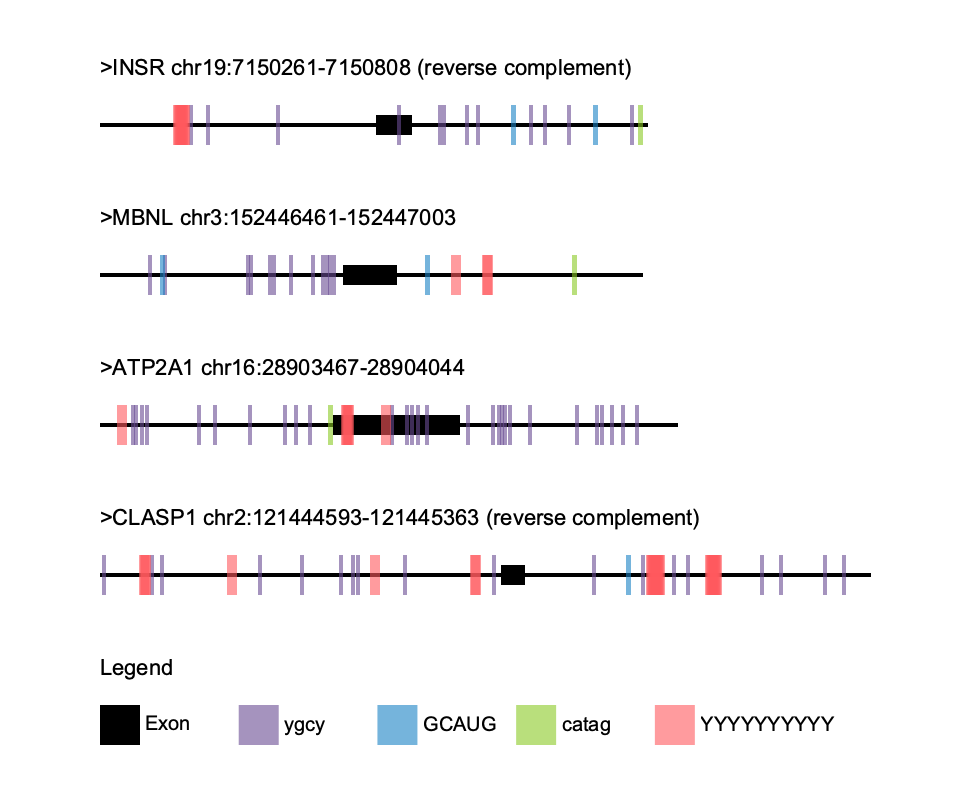
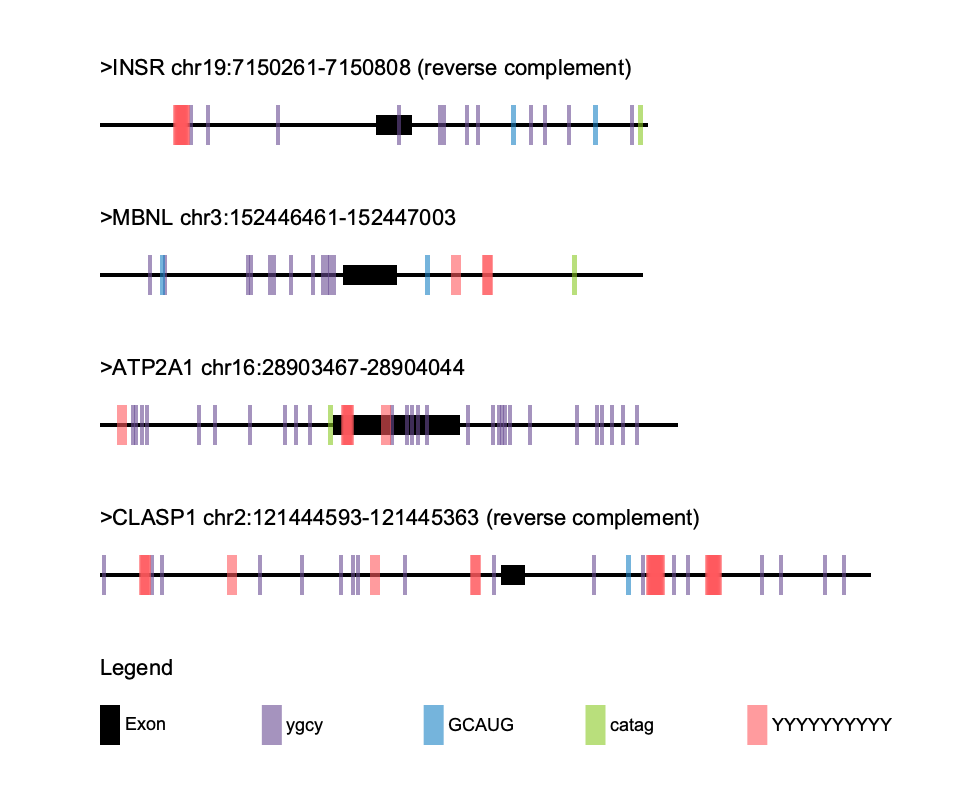
adjusted to account for ambiguous motif nucleotides

Changed region(s): [[0.3708, 0.875, 0.9269, 0.9375], [0.2472, 0.875, 0.3399, 0.9375], [0.1236, 0.875, 0.1854, 0.9375]]

diff --git a/motif-mark-oop.py b/motif-mark-oop.py
@@ -65,12 +65,23 @@ def convert_motif(motif):
     '''Converts a motif from the motif list into the regex searchable version, accounting for Y's being any pyrimadine.
     Inputs a single motif sequence, returns the regex searchable string of that motif.'''
     regex_dict = {'A': 'A', 
-                  'T': 'T',
+                  'T': '[T|U]',
                   'C': 'C',
                   'G': 'G',
-                  'U': 'T',
+                  'U': '[T|U]',
                   'Y': '[C|T|U]',
+                  'R': '[A|G]',
+                  'W': '[A|T|U]',
+                  'S': '[C|G]',
+                  'M': '[C|A]',
+                  'K': '[G|T|U]',
+                  'B': '[C|T|U|G]',
+                  'D': '[A|T|U|G]',
+                  'H': '[A|T|U|C]',
+                  'V': '[A|G|C]',
+                  'N': '[A|T|U|C|G]',
                  }
+
     motif = motif.upper()
     regex_motif = ""
     for char in motif:
@@ -260,19 +271,19 @@ context.move_to(seq_start_x, curr_y-50)
 context.show_text("Legend")
 
 #establish start x and section increments based on how many motifs there are
-section = width/(len(color_map)+3) #+3 was so the final motif didn't run over the border
+section = width/(len(color_map)+2)
 legend_start = seq_start_x
 
 #draw black box for the exon label key
 context.set_line_width(40)
 context.move_to(legend_start,curr_y)
-context.line_to(legend_start+40,curr_y)
+context.line_to(legend_start+20,curr_y)
 context.stroke()
 
 #write exon label
-context.set_font_size(20)
+context.set_font_size(18)
 context.select_font_face("Arial", cairo.FONT_SLANT_NORMAL, cairo.FONT_WEIGHT_NORMAL) 
-context.move_to(legend_start+45, curr_y+5) 
+context.move_to(legend_start+25, curr_y+5) 
 context.show_text("Exon") 
 
 #increment x position
@@ -286,14 +297,14 @@ for motif in color_map:
     context.set_source_rgba(red, green, blue, .6)
     context.set_line_width(40)
     context.move_to(legend_start,curr_y)
-    context.line_to(legend_start+40,curr_y)
+    context.line_to(legend_start+20,curr_y)
     context.stroke()
     
     #add motif label next to color block key
     context.set_source_rgb(0, 0, 0)
-    context.set_font_size(20)
+    context.set_font_size(18)
     context.select_font_face("Arial", cairo.FONT_SLANT_NORMAL, cairo.FONT_WEIGHT_NORMAL) 
-    context.move_to(legend_start+46, curr_y+6) 
+    context.move_to(legend_start+25, curr_y+6) 
     context.show_text(motif) 
     
     #increment x position

diff --git a/README.md b/README.md
@@ -5,6 +5,9 @@
 
 Assignment goal: Write a python script using object-oriented code to visualize motifs on sequences. The input is a .fasta file of sequences and a .txt file list of motifs. The output is a graphic illustration of each sequence overlaid with the found motifs.
 
+The script is capable of handling:
+* 
+
 File directory:
 * ```lab_notebook.md``` -> details of the process to complete this assignment for the sake of reproducibility
 * ```Figure_1.png``` -> example graphical output of the script given the provided test files, ```Figure_1.fasta``` and ```Fig_1_motifs.txt```
